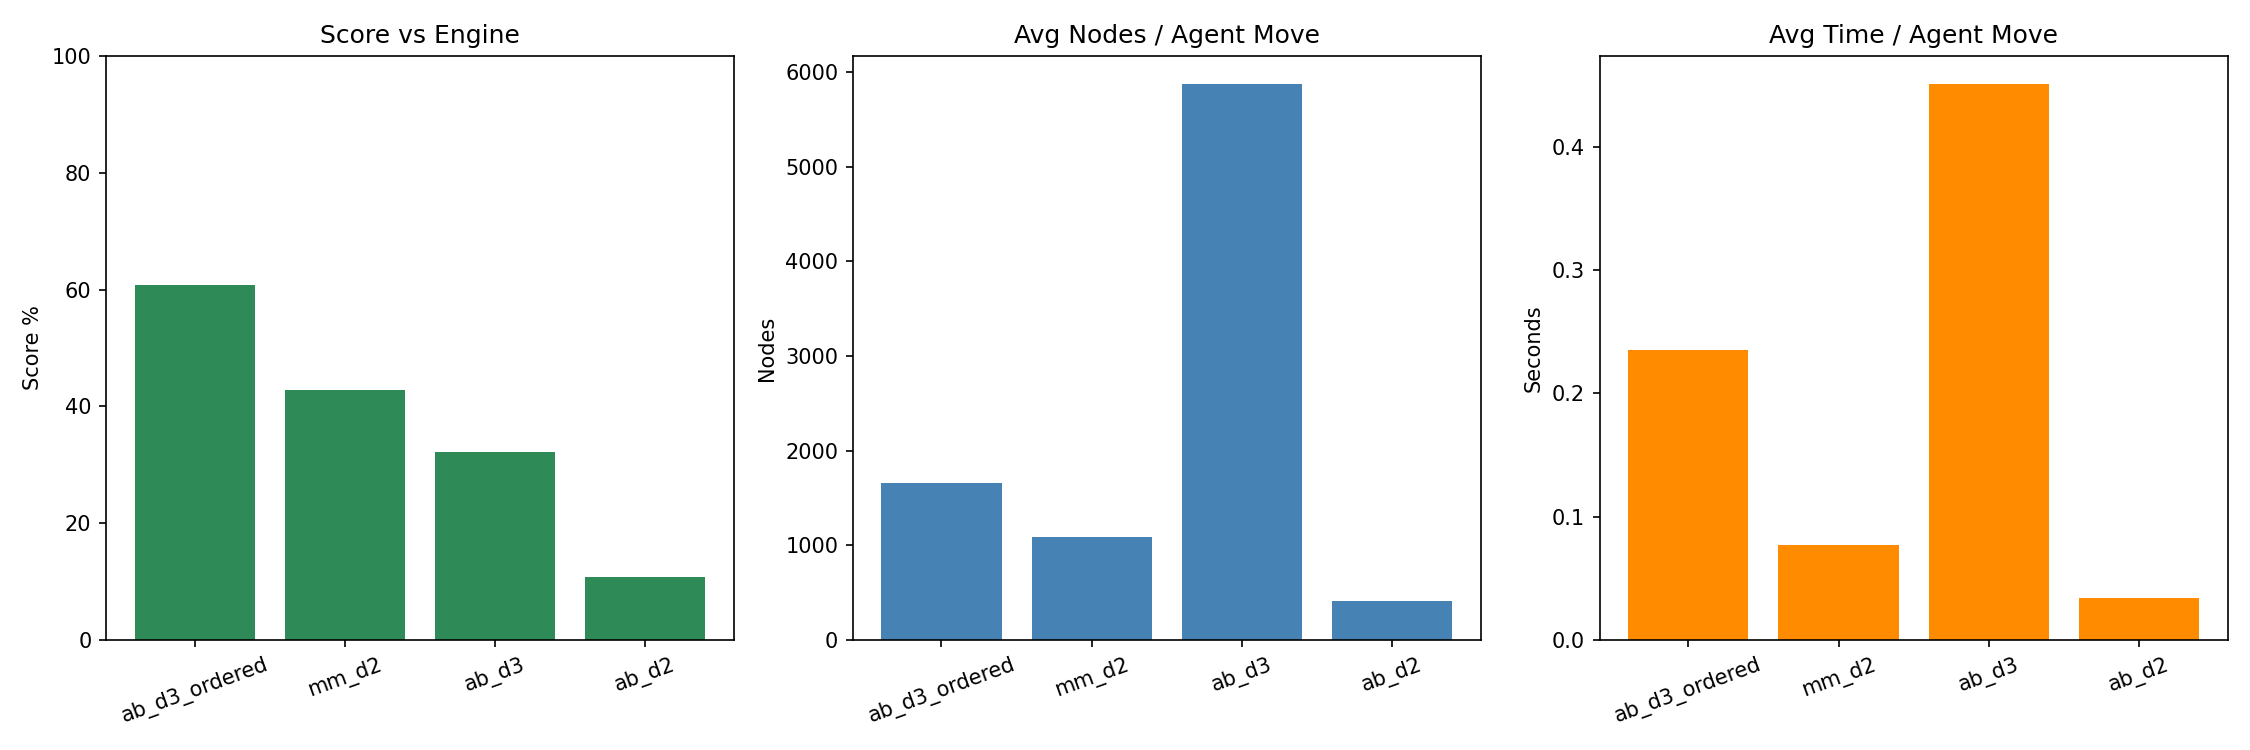
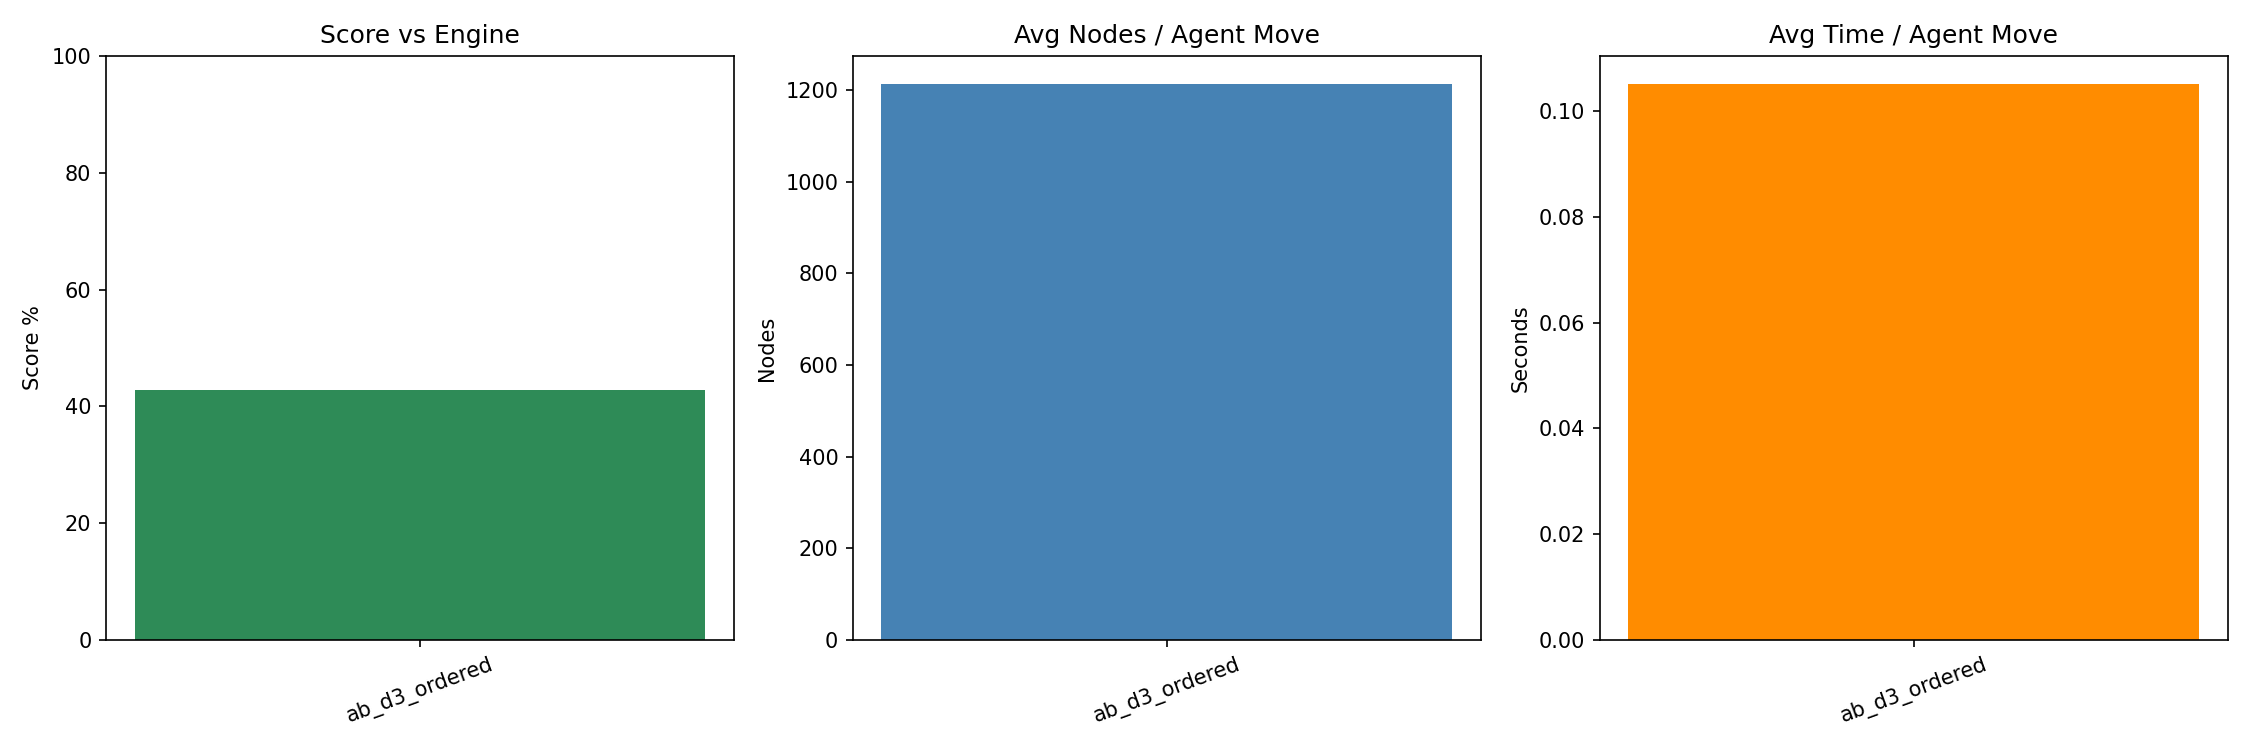
Optimised ai speed

diff --git a/agent/search.py b/agent/search.py
@@ -33,12 +33,15 @@ of the tree without changing the result - the same move is chosen as pure
 Minimax, just faster.
 """
 from dataclasses import dataclass
-import math
 import time
 
 import chess
 
 from .evaluation import evaluate
+
+# Integer bounds used instead of _INF.  Any legal evaluation fits inside
+# these limits and integer comparisons are faster than float in CPython.
+_INF = 200_000
 
 
 @dataclass(frozen=True)
@@ -93,14 +96,15 @@ def _move_order_score(board, move):
 
 
 def _get_candidate_moves(board, move_ordering):
+    if not move_ordering:
+        return board.legal_moves
     moves = list(board.legal_moves)
-    if move_ordering:
-        score_move = lambda move: _move_order_score(board, move)
-        moves.sort(key=score_move, reverse=True)
+    moves.sort(key=lambda m: _move_order_score(board, m), reverse=True)
     return moves
 
 
-def minimax(board, depth, alpha, beta, is_maximising, counter, move_ordering=False):
+def minimax(board, depth, alpha, beta, is_maximising, counter, move_ordering=False,
+            _evaluate=evaluate, _get_moves=_get_candidate_moves):
     """
     Minimax search with Alpha-Beta pruning.
 
@@ -123,47 +127,53 @@ def minimax(board, depth, alpha, beta, is_maximising, counter, move_ordering=Fal
     counter[0] += 1
 
     if depth == 0 or board.is_game_over():
-        return evaluate(board), None
+        return _evaluate(board), None
+
+    push = board.push
+    pop = board.pop
 
     if is_maximising:
-        best_score = -math.inf
+        best_score = -_INF
         best_move = None
-        for move in _get_candidate_moves(board, move_ordering):
-            board.push(move)
+        for move in _get_moves(board, move_ordering):
+            push(move)
             score, _ = minimax(
                 board, depth - 1, alpha, beta, False, counter, move_ordering
             )
-            board.pop()
+            pop()
 
             if score > best_score:
                 best_score = score
                 best_move = move
 
-            alpha = max(alpha, best_score)
+            if best_score > alpha:
+                alpha = best_score
             if beta <= alpha:
                 break
         return best_score, best_move
 
-    best_score = math.inf
+    best_score = _INF
     best_move = None
-    for move in _get_candidate_moves(board, move_ordering):
-        board.push(move)
+    for move in _get_moves(board, move_ordering):
+        push(move)
         score, _ = minimax(
             board, depth - 1, alpha, beta, True, counter, move_ordering
         )
-        board.pop()
+        pop()
 
         if score < best_score:
             best_score = score
             best_move = move
 
-        beta = min(beta, best_score)
+        if best_score < beta:
+            beta = best_score
         if beta <= alpha:
             break
     return best_score, best_move
 
 
-def minimax_no_pruning(board, depth, is_maximising, counter, move_ordering=False):
+def minimax_no_pruning(board, depth, is_maximising, counter, move_ordering=False,
+                       _evaluate=evaluate, _get_moves=_get_candidate_moves):
     """
     Pure Minimax without Alpha-Beta pruning.
 
@@ -172,29 +182,32 @@ def minimax_no_pruning(board, depth, is_maximising, counter, move_ordering=False
     counter[0] += 1
 
     if depth == 0 or board.is_game_over():
-        return evaluate(board), None
+        return _evaluate(board), None
 
+    push = board.push
+    pop = board.pop
     best_move = None
+
     if is_maximising:
-        best_score = -math.inf
-        for move in _get_candidate_moves(board, move_ordering):
-            board.push(move)
+        best_score = -_INF
+        for move in _get_moves(board, move_ordering):
+            push(move)
             score, _ = minimax_no_pruning(
                 board, depth - 1, False, counter, move_ordering
             )
-            board.pop()
+            pop()
             if score > best_score:
                 best_score = score
                 best_move = move
         return best_score, best_move
 
-    best_score = math.inf
-    for move in _get_candidate_moves(board, move_ordering):
-        board.push(move)
+    best_score = _INF
+    for move in _get_moves(board, move_ordering):
+        push(move)
         score, _ = minimax_no_pruning(
             board, depth - 1, True, counter, move_ordering
         )
-        board.pop()
+        pop()
         if score < best_score:
             best_score = score
             best_move = move
@@ -216,8 +229,8 @@ def search_position(board, config):
         score, move = minimax(
             board,
             config.depth,
-            -math.inf,
-            math.inf,
+            -_INF,
+            _INF,
             is_max,
             counter,
             config.move_ordering,

diff --git a/agent/evaluation.py b/agent/evaluation.py
@@ -154,6 +154,26 @@ BLACK_SCORES = {
     for piece_type in PIECE_TYPES
 }
 
+# Flat lookup arrays indexed by (piece_type * 64 + square).
+# A single tuple index replaces a dict lookup + tuple index per piece,
+# which is measurably faster in CPython's eval loop.
+_WHITE_FLAT = tuple(
+    WHITE_SCORES.get(pt, (0,) * 64)[sq]
+    for pt in range(7)          # 0 is unused, 1-6 are piece types
+    for sq in range(64)
+)
+_BLACK_FLAT = tuple(
+    BLACK_SCORES.get(pt, (0,) * 64)[sq]
+    for pt in range(7)
+    for sq in range(64)
+)
+
+# Pre-bind constants used inside evaluate() to avoid repeated global lookups.
+_WHITE = chess.WHITE
+_BLACK = chess.BLACK
+_PIECE_TYPES = PIECE_TYPES
+
+
 def evaluate(board):
     """
     Heuristic evaluation of the board position from White's perspective.
@@ -178,24 +198,22 @@ def evaluate(board):
           < 0  Black is ahead
             0  Equal position (or forced draw)
     """
-    if board.is_checkmate():
-        return -100000 if board.turn else 100000
-    if board.is_stalemate() or board.is_insufficient_material():
+    if not any(board.legal_moves):
+        return (-100000 if board.turn else 100000) if board.is_check() else 0
+    if board.is_insufficient_material():
         return 0
 
     score = 0
-    white_scores = WHITE_SCORES
-    black_scores = BLACK_SCORES
+    pieces = board.pieces
+    wf = _WHITE_FLAT
+    bf = _BLACK_FLAT
 
-    for piece_type in PIECE_TYPES:
-        white_piece_scores = white_scores[piece_type]
-        black_piece_scores = black_scores[piece_type]
-
-        for square in board.pieces(piece_type, chess.WHITE):
-            score += white_piece_scores[square]
-
-        for square in board.pieces(piece_type, chess.BLACK):
-            score -= black_piece_scores[square]
+    for piece_type in _PIECE_TYPES:
+        offset = piece_type << 6            # piece_type * 64
+        for sq in pieces(piece_type, _WHITE):
+            score += wf[offset + sq]
+        for sq in pieces(piece_type, _BLACK):
+            score -= bf[offset + sq]
 
     return score
 

diff --git a/config/settings.py b/config/settings.py
@@ -16,9 +16,9 @@ Format per entry: (name, depth, use_alpha_beta, move_ordering)
 # ---------------------------------------------------------------------------
 AGENT_CONFIGS = [
     # name              depth  alpha_beta  move_ordering
-    ("mm_d2",           2,     False,      False),   # pure Minimax, depth 2
-    ("ab_d2",           2,     True,       False),   # Alpha-Beta, depth 2
-    ("ab_d3",           3,     True,       False),   # Alpha-Beta, depth 3
+    # ("mm_d2",           2,     False,      False),   # pure Minimax, depth 2
+    # ("ab_d2",           2,     True,       False),   # Alpha-Beta, depth 2
+    # ("ab_d3",           3,     True,       False),   # Alpha-Beta, depth 3
     ("ab_d3_ordered",   3,     True,       True),    # Alpha-Beta, depth 3 + move ordering
     # ("ab_d4",           4,     True,       True),   # Alpha-Beta, depth 4
 ]
